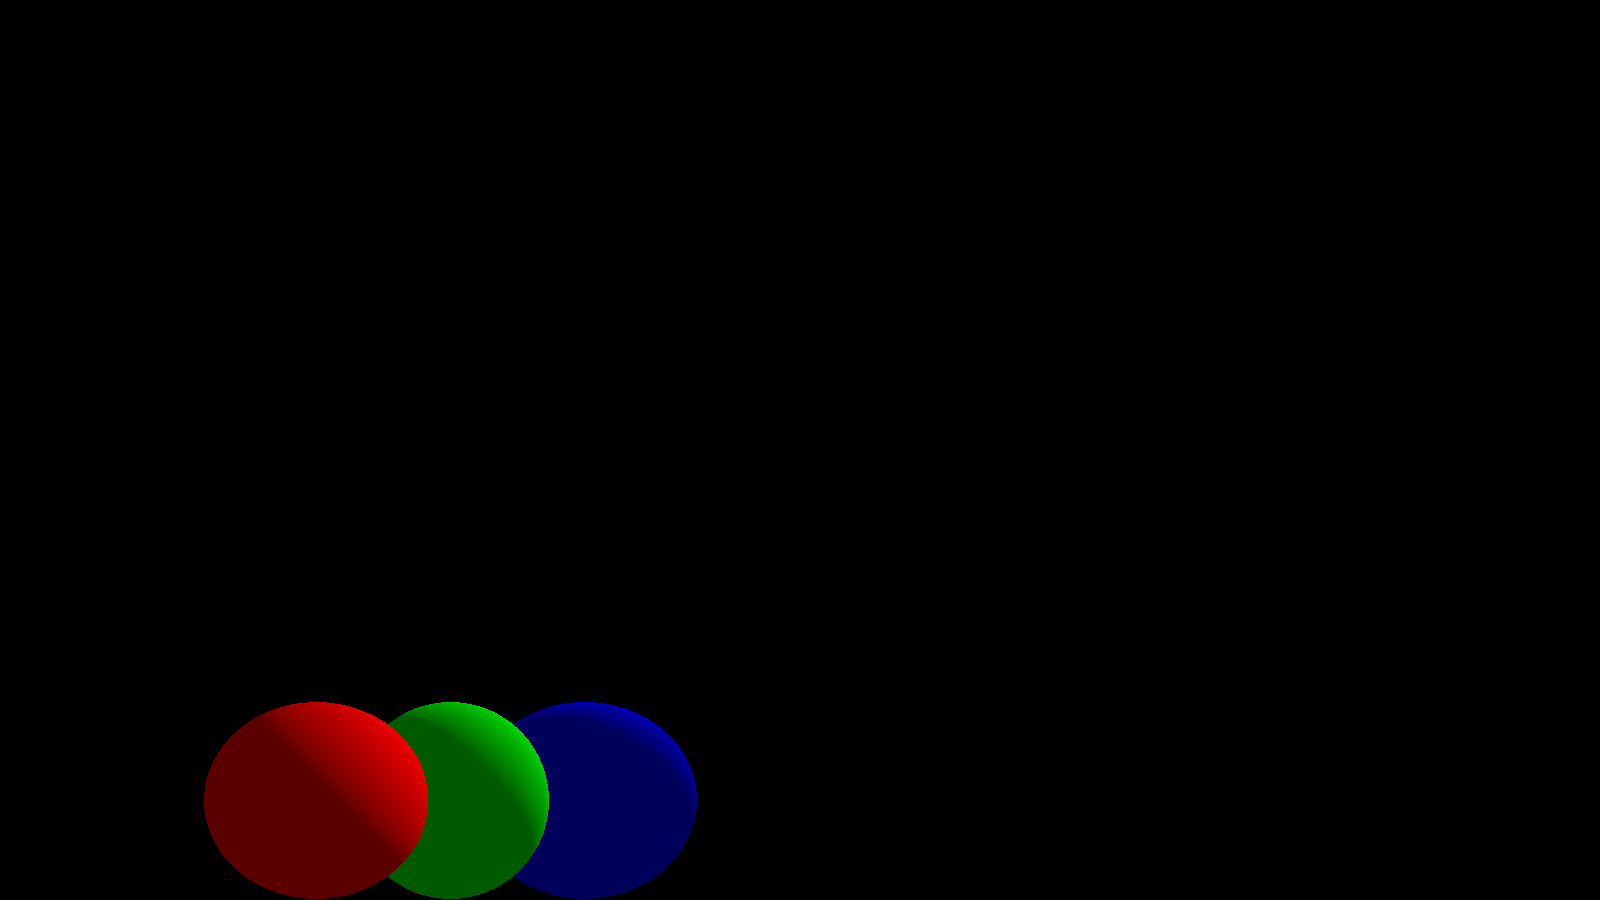
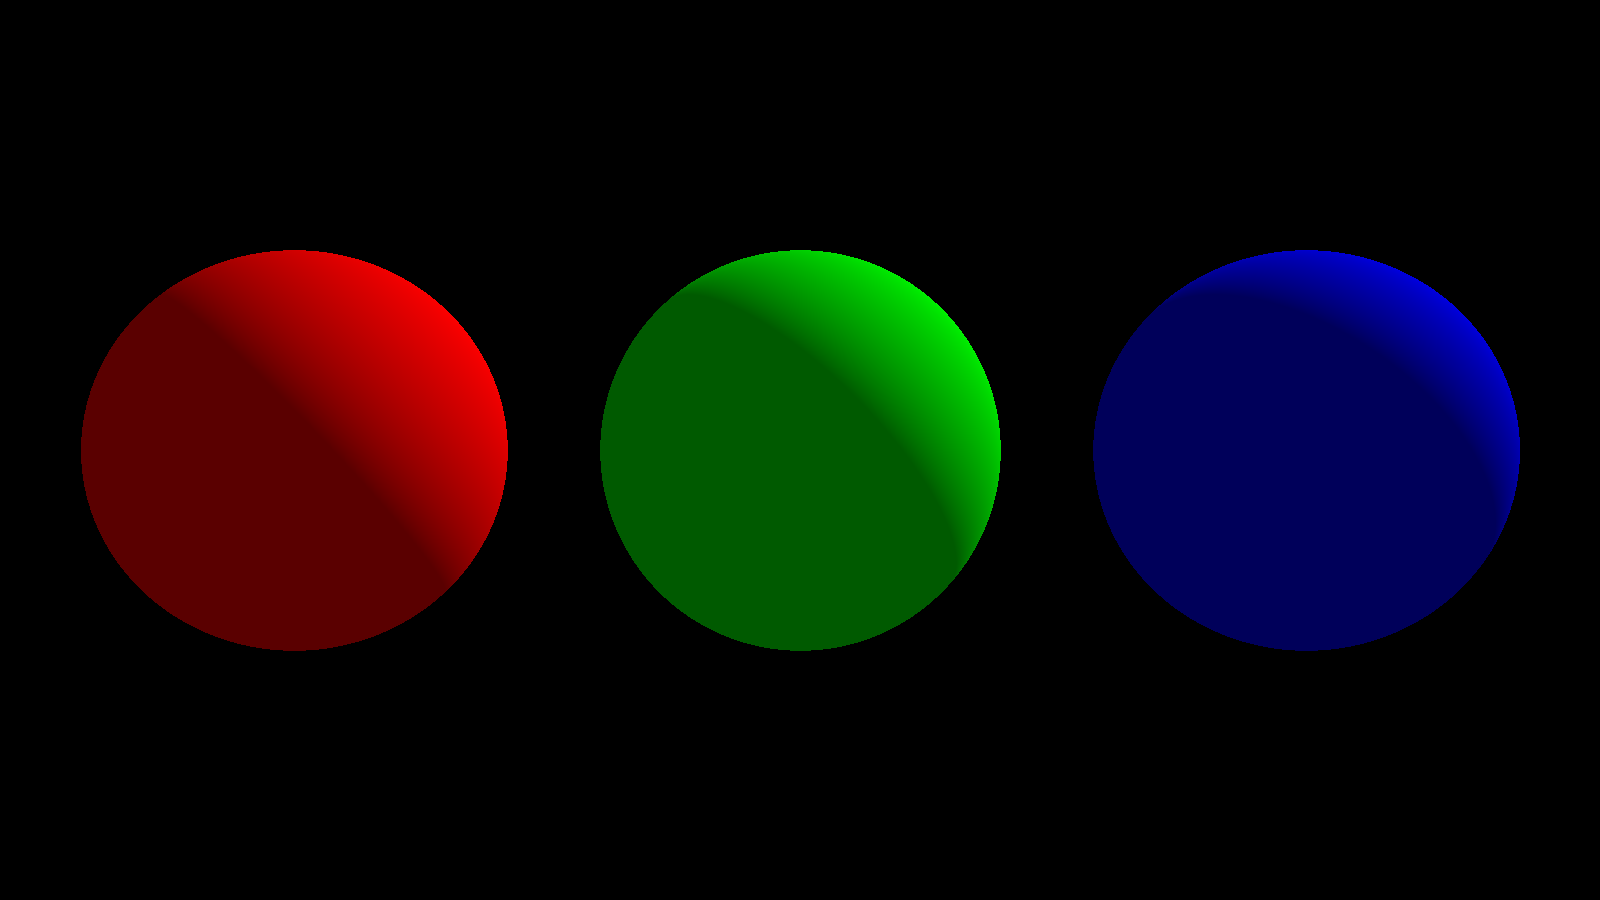
fixed sphere location

diff --git a/src/cgg/a03/Main.java b/src/cgg/a03/Main.java
@@ -10,13 +10,13 @@ public class Main {
         final int width = 1600;
         final int height = 900;
         
-        Sphere sphere1 = new Sphere(point(-100,0,200),80);
-        Sphere sphere2 = new Sphere(point(0,0,200),80);        
-        Sphere sphere3 = new Sphere(point(100,0,200),80);
+        Sphere sphere1 = new Sphere(point(-200,0,550),80);
+        Sphere sphere2 = new Sphere(point(0,0,550),80);        
+        Sphere sphere3 = new Sphere(point(200,0,550),80);
         
         Image image = new Image(width, height);
         ArrayList<Sphere> spheres = new ArrayList<>(Arrays.asList(sphere1,sphere2,sphere3));
-        Camera cam = new Camera(180, height, width);
+        Camera cam = new Camera(200, width, height);
 
         Raytracing raytraycing = new Raytracing(spheres, cam);
 
